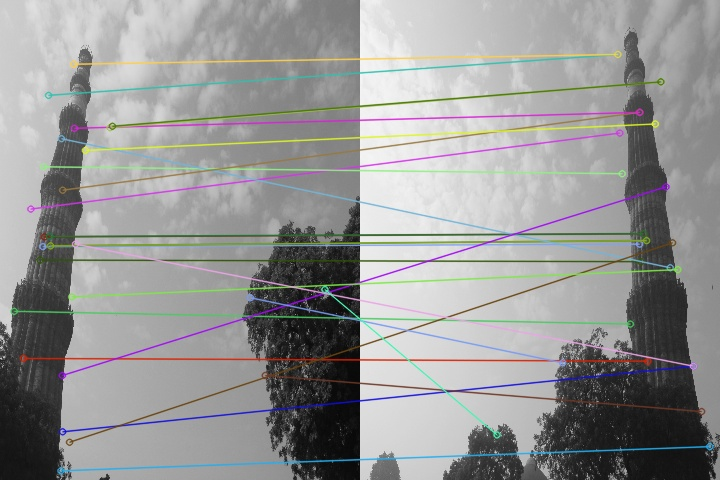
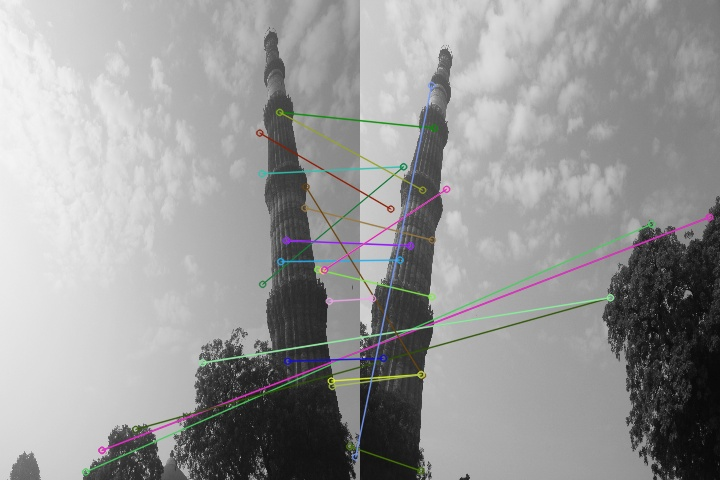
Added ROI in pre

diff --git a/src_pre_bounded.py b/src_pre_bounded.py
@@ -3,13 +3,30 @@ import numpy as np
 
 img1='InputImages/7.jpeg'
 img2='InputImages/8.jpeg'
-Name_Final = 'OutputImages/Op4Prek3.jpeg'
+Name_Final = 'OutputImages/Op4Prek3_bounded.jpeg'
 downsample_level=1
 clippinglimit=2
 w=360
 h=480
 gaussian_ksize=3
 min_limit=0.75
+
+# Region of Interest
+
+## Left Image
+x_l     = 200
+xw_l    = 360
+
+y_l     =  0
+yw_l    =  480
+
+## Right Image
+x_r     = 0
+xw_r    = 160
+
+y_r     = 0
+yw_r    = 480
+
 
 def inp(A,B):
     img1=cv2.imread(A)
@@ -52,11 +69,18 @@ def prep(img,w,h,climit,downsample_level,k_size):
 
     return img1,img2,img3,img4
 
-def SIFT(img):
+def SIFT(imgl,imgr):
     sift=cv2.xfeatures2d.SIFT_create()
-    kp,desc = sift.detectAndCompute(img,None)
-    img_keyp =cv2.drawKeypoints(img,kp,None, flags=cv2.DRAW_MATCHES_FLAGS_DRAW_RICH_KEYPOINTS)
-    return kp,desc,img_keyp
+    kpl,descl = sift.detectAndCompute(imgl[y_l:yw_l,x_l:xw_l],None)
+    img_keypl =cv2.drawKeypoints(imgl,kpl,None, flags=cv2.DRAW_MATCHES_FLAGS_DRAW_RICH_KEYPOINTS)
+
+    kpr,descr = sift.detectAndCompute(imgr[y_r:yw_r,x_r:xw_r],None)
+    img_keypr =cv2.drawKeypoints(imgr,kpr,None, flags=cv2.DRAW_MATCHES_FLAGS_DRAW_RICH_KEYPOINTS)
+
+    for i in range(len(kpl)):
+        kpl[i].pt = (kpl[i].pt[0] + 200.0,kpl[i].pt[1])
+    
+    return kpl,descl,img_keypl,kpr,descr,img_keypr
 
 def Matcher(ima,imb,ima_kp,imb_kp,ima_desc,imb_desc,min_limit):
     bf = cv2.BFMatcher(cv2.NORM_L2)
@@ -66,7 +90,8 @@ def Matcher(ima,imb,ima_kp,imb_kp,ima_desc,imb_desc,min_limit):
     for m,n in matches:
         if m.distance < min_limit*n.distance:
             good.append([m])
-
+    cv2.rectangle(ima,(x_l,y_l),(xw_l,yw_l),(0,255,0),2)
+    cv2.rectangle(imb,(x_r,y_r),(xw_r,yw_r),(0,255,0),2)
     match_img = cv2.drawMatchesKnn(ima,ima_kp,imb,imb_kp,good,None,flags=2)
 
     return matches,good,match_img
@@ -75,8 +100,7 @@ def FinalCall(A,B,min_limit):
     imDownA,imHistA,imBWA,imLPFA = prep(A,w,h,clippinglimit,downsample_level,gaussian_ksize)
     imDownB,imHistB,imBWB,imLPFB = prep(B,w,h,clippinglimit,downsample_level,gaussian_ksize)
     
-    ima_kp,ima_desc,keyp_imgA = SIFT(imLPFA)
-    imb_kp,imb_desc,keyp_imgB = SIFT(imLPFB)
+    ima_kp,ima_desc,keyp_imgA,imb_kp,imb_desc,keyp_imgB = SIFT(imLPFA,imLPFB)
 
     matches,good,match_img = Matcher(imBWA,imBWB,ima_kp,imb_kp,ima_desc,imb_desc,min_limit)
 

diff --git a/src_nopre_bounded.py b/src_nopre_bounded.py
@@ -1,12 +1,29 @@
 import cv2
 import numpy as np
 
-img1='InputImages/4.JPG'
-img2='InputImages/3.JPG'
-Name_Final = 'OutputImages/Op2WithoutPre.jpeg'
+img1='InputImages/7.jpeg'
+img2='InputImages/8.jpeg'
+Name_Final = 'OutputImages/Op4WithoutPre_Bounded.jpeg'
 
 w=360
 h=480
+
+
+# Region of Interest
+
+## Left Image
+x_l     = 200
+xw_l    = 360
+
+y_l     =  0
+yw_l    =  480
+
+## Right Image
+x_r     = 0
+xw_r    = 160
+
+y_r     = 0
+yw_r    = 480
 
 min_limit=0.75
 
@@ -20,11 +37,18 @@ def Resize_BW(img,w,h):
     img=cv2.resize(img, (w,h))
     return img
 
-def SIFT(img):
+def SIFT(imgl,imgr):
     sift=cv2.xfeatures2d.SIFT_create()
-    kp,desc = sift.detectAndCompute(img,None)
-    img_keyp =cv2.drawKeypoints(img,kp,None, flags=cv2.DRAW_MATCHES_FLAGS_DRAW_RICH_KEYPOINTS)
-    return kp,desc,img_keyp
+    kpl,descl = sift.detectAndCompute(imgl[y_l:yw_l,x_l:xw_l],None)
+    img_keypl =cv2.drawKeypoints(imgl,kpl,None, flags=cv2.DRAW_MATCHES_FLAGS_DRAW_RICH_KEYPOINTS)
+
+    kpr,descr = sift.detectAndCompute(imgr[y_r:yw_r,x_r:xw_r],None)
+    img_keypr =cv2.drawKeypoints(imgr,kpr,None, flags=cv2.DRAW_MATCHES_FLAGS_DRAW_RICH_KEYPOINTS)
+
+    for i in range(len(kpl)):
+        kpl[i].pt = (kpl[i].pt[0] + 200.0,kpl[i].pt[1])
+    
+    return kpl,descl,img_keypl,kpr,descr,img_keypr
 
 def Matcher(ima,imb,ima_kp,imb_kp,ima_desc,imb_desc,min_limit):
     bf = cv2.BFMatcher(cv2.NORM_L2)
@@ -34,7 +58,8 @@ def Matcher(ima,imb,ima_kp,imb_kp,ima_desc,imb_desc,min_limit):
     for m,n in matches:
         if m.distance < min_limit*n.distance:
             good.append([m])
-
+    cv2.rectangle(ima,(x_l,y_l),(xw_l,yw_l),(0,255,0),2)
+    cv2.rectangle(imb,(x_r,y_r),(xw_r,yw_r),(0,255,0),2)
     match_img = cv2.drawMatchesKnn(ima,ima_kp,imb,imb_kp,good,None,flags=2)
 
     return matches,good,match_img
@@ -43,8 +68,7 @@ def FinalCall(A,B,min_limit):
     imBWA = Resize_BW(A,w,h)
     imBWB = Resize_BW(B,w,h)
     
-    ima_kp,ima_desc,keyp_imgA = SIFT(imBWA)
-    imb_kp,imb_desc,keyp_imgB = SIFT(imBWB)
+    ima_kp,ima_desc,keyp_imgA,imb_kp,imb_desc,keyp_imgB = SIFT(imBWA,imBWB)
 
     matches,good,match_img = Matcher(imBWA,imBWB,ima_kp,imb_kp,ima_desc,imb_desc,min_limit)
 
